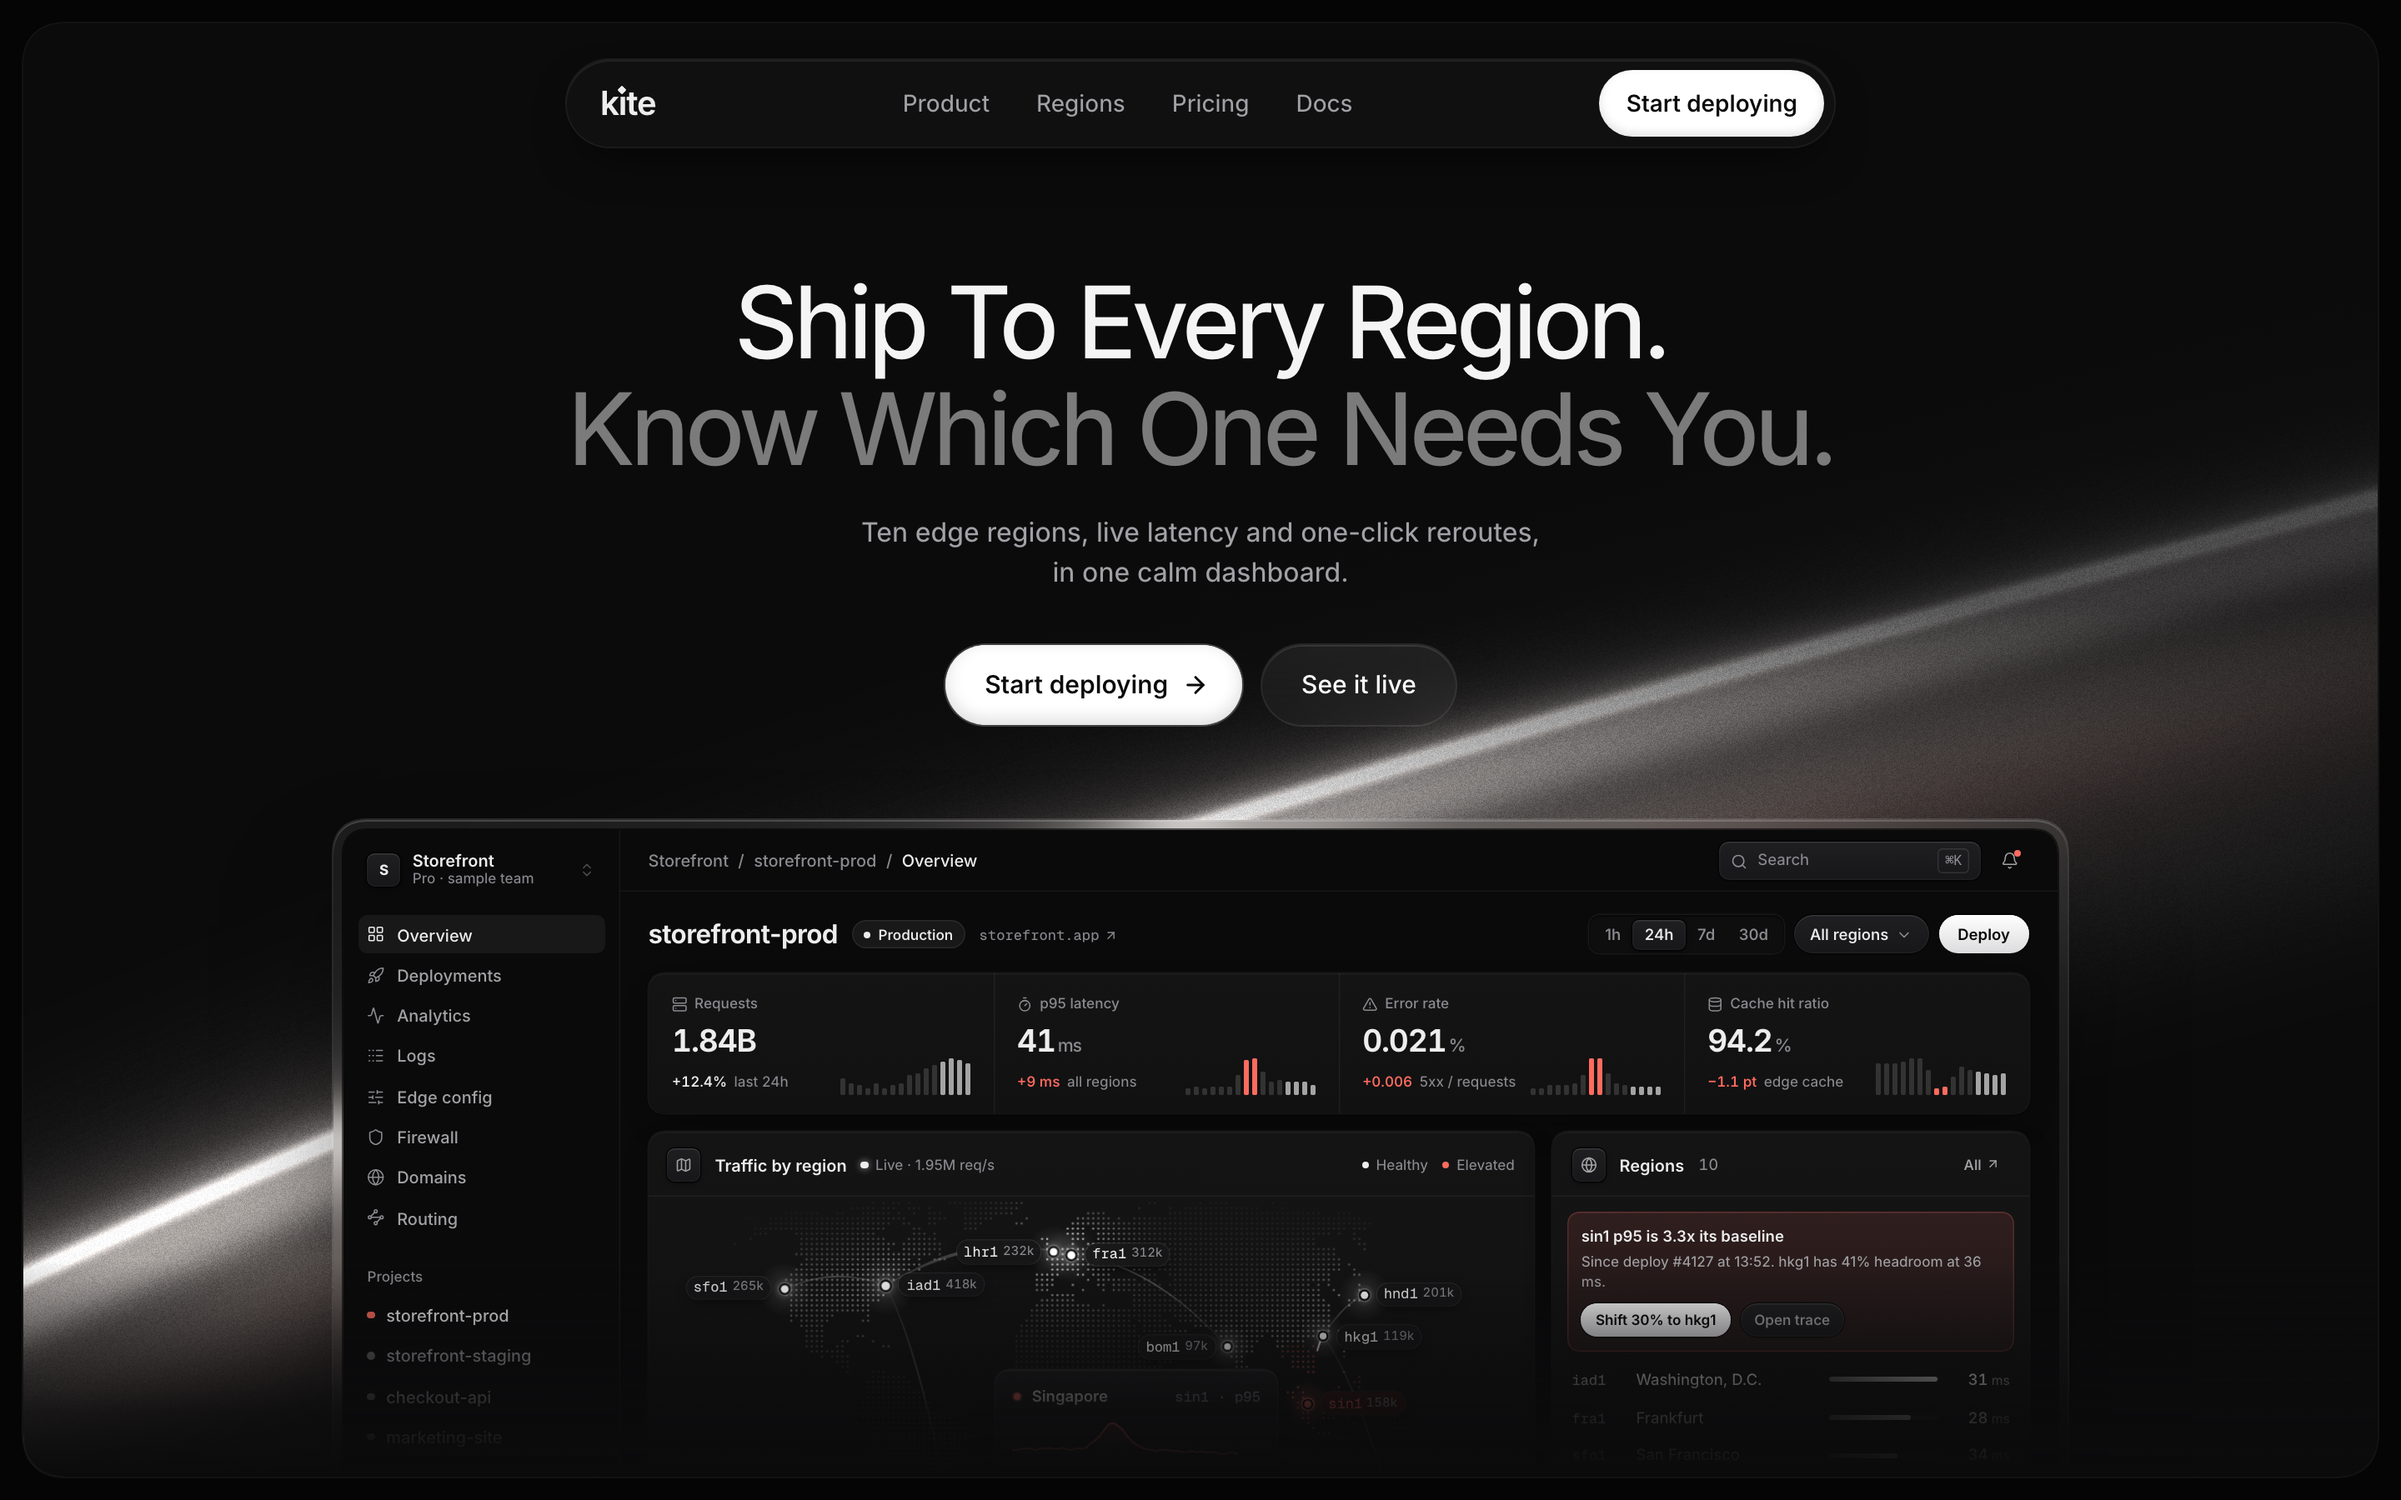
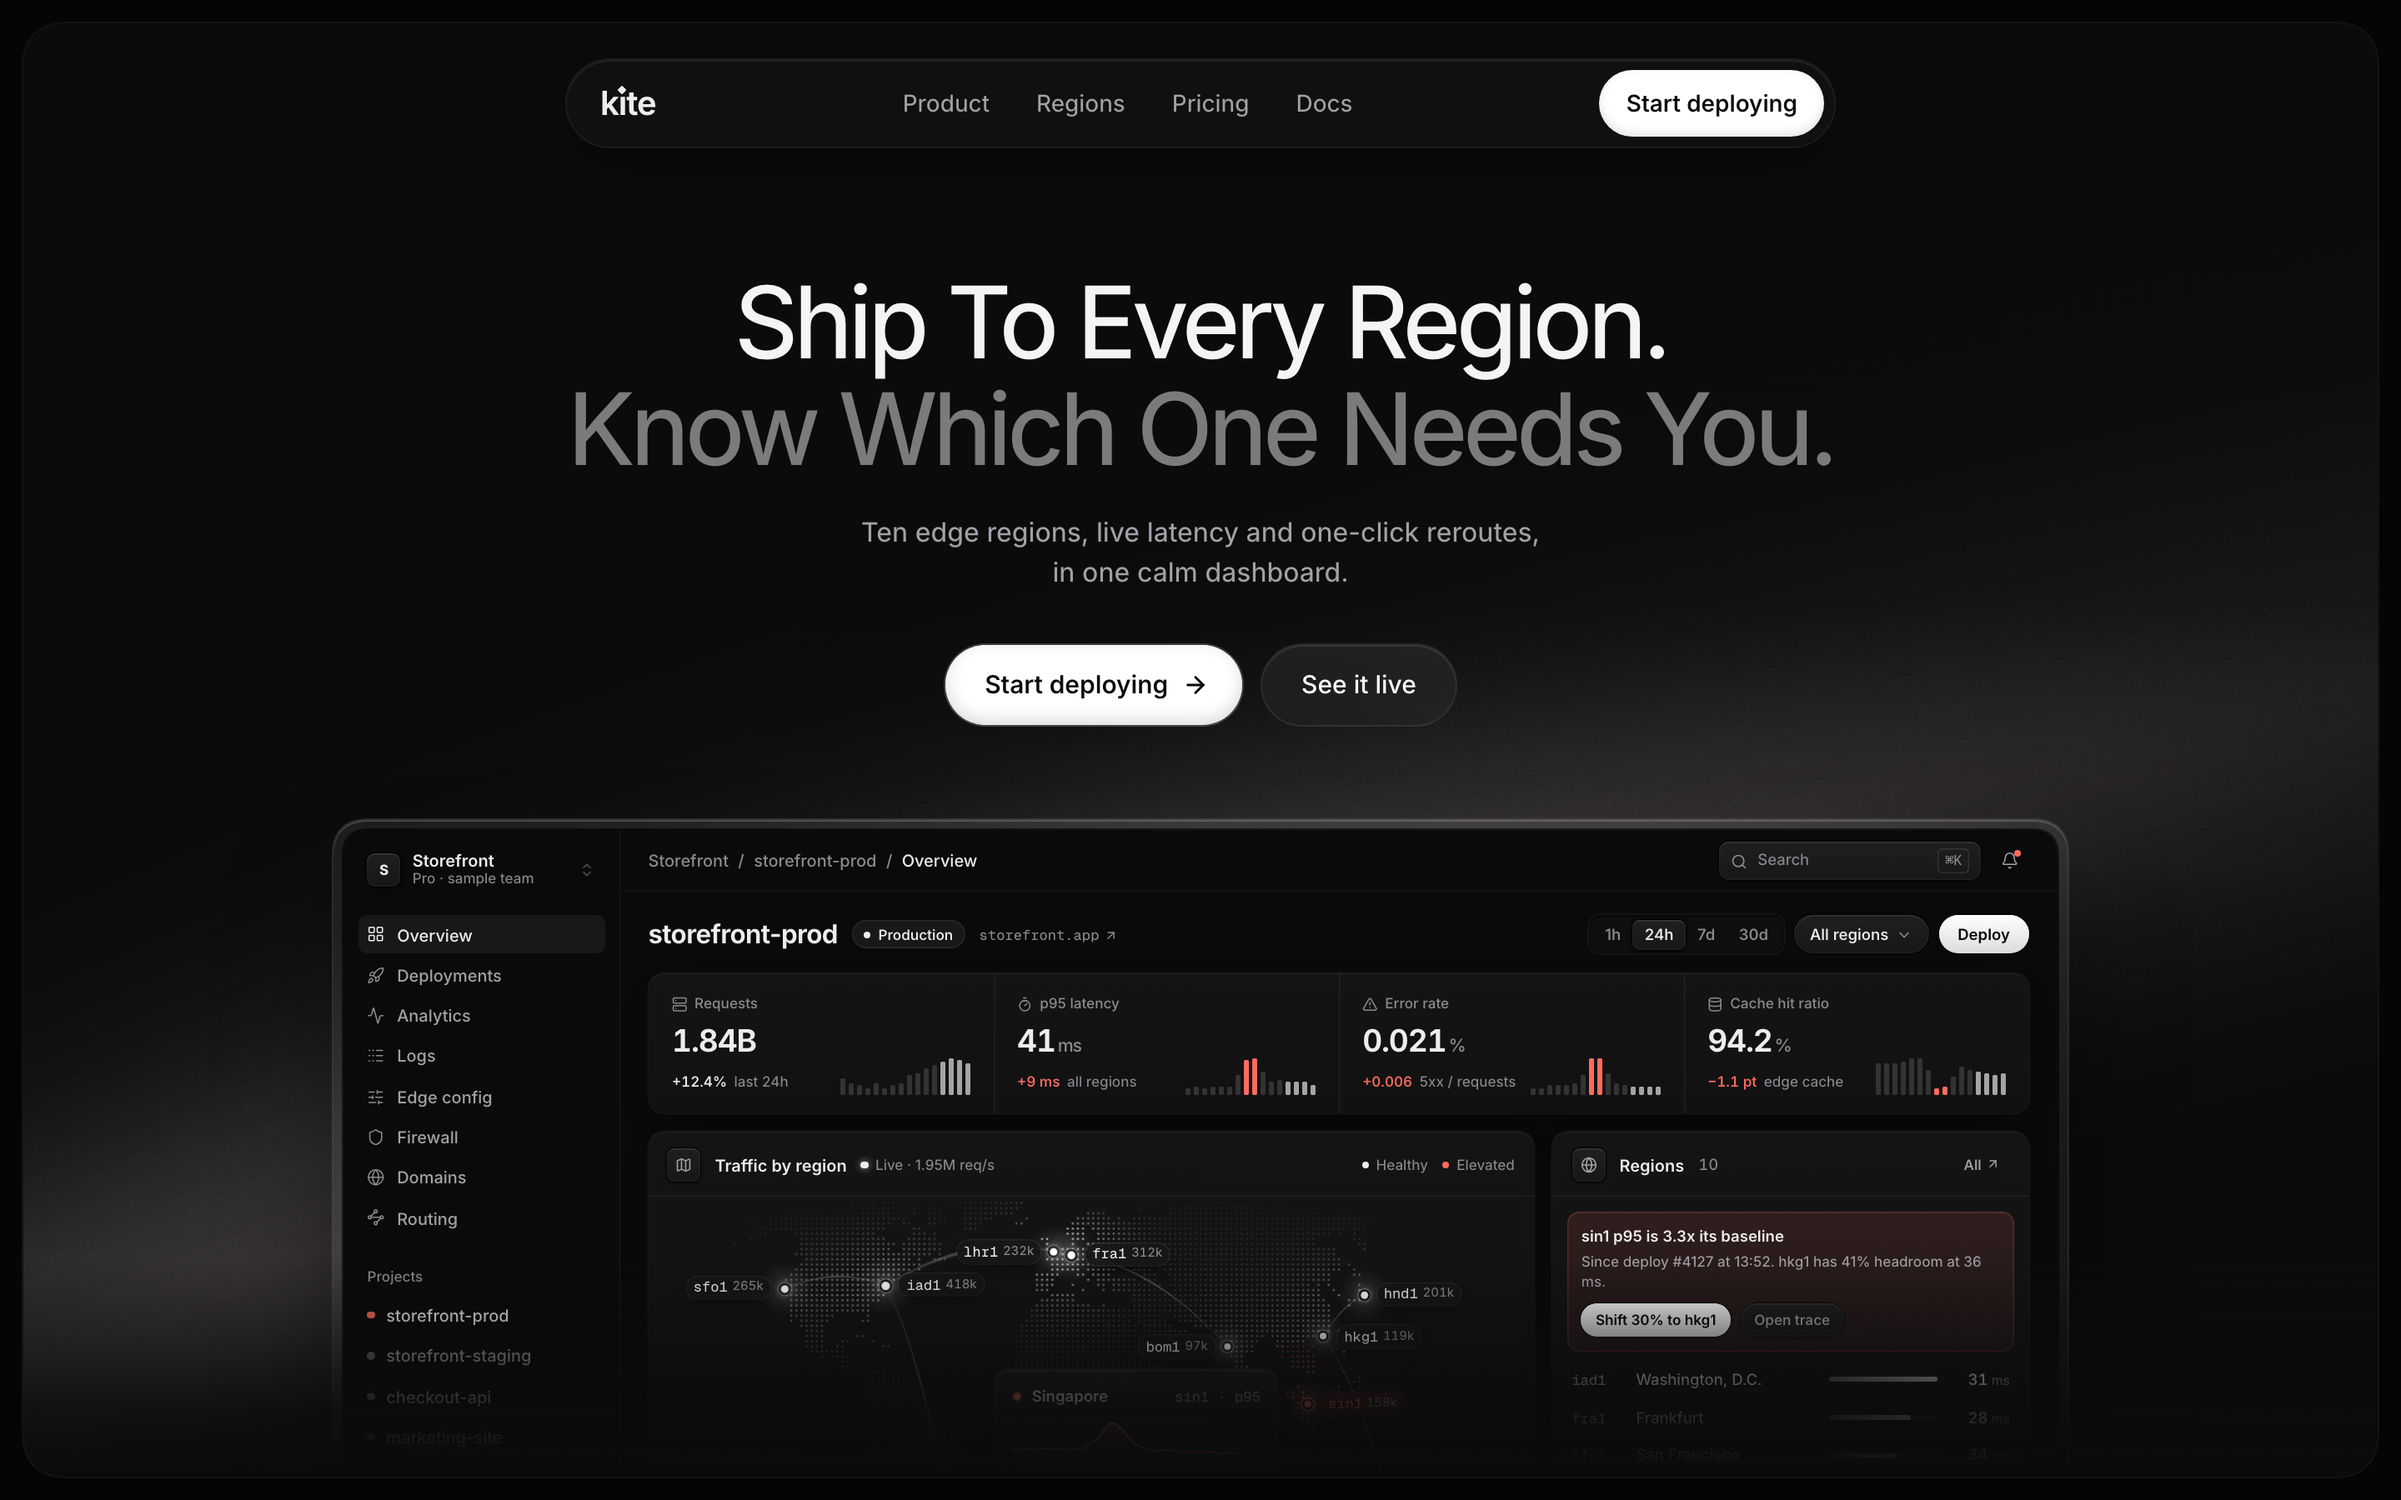
Kite hero: light field softened to a wide low-contrast sheen (no bright streak)

Changed region(s): [[0.4375, 0.3111, 1.0, 0.56], [0.0, 0.7156, 0.1562, 0.9022]]

diff --git a/work/kite/app/src/LightField.tsx b/work/kite/app/src/LightField.tsx
@@ -16,11 +16,9 @@ export default function LightField({ w, h, className = '' }: { w: number; h: num
       ctx.strokeStyle = col.replace('A', String(a)); ctx.lineWidth = width; ctx.lineCap = 'round'
       ctx.beginPath(); ctx.moveTo(-200, h * 1.02 + off); ctx.bezierCurveTo(w * 0.3, h * 0.66 + off, w * 0.56, h * 0.56 + off, w + 240, h * 0.3 + off); ctx.stroke(); ctx.restore()
     }
-    ribbon(40, 260, 0.10, 'rgba(255,236,222,A)', 90)
-    ribbon(0, 120, 0.20, 'rgba(255,244,236,A)', 46)
-    ribbon(-26, 46, 0.34, 'rgba(255,250,246,A)', 18)
-    ribbon(-40, 10, 0.55, 'rgba(255,255,255,A)', 5)
-    ribbon(70, 70, 0.09, 'rgba(255,170,140,A)', 40)
+    ribbon(30, 320, 0.07, 'rgba(255,240,230,A)', 110)
+    ribbon(10, 160, 0.075, 'rgba(255,246,240,A)', 70)
+    ribbon(60, 120, 0.03, 'rgba(255,180,150,A)', 60)
     // fall to canvas before the reading zone (top) and toward the bottom corners
     const top = ctx.createLinearGradient(0, 0, 0, h)
     top.addColorStop(0, 'rgba(11,11,12,0.97)'); top.addColorStop(0.4, 'rgba(11,11,12,0.7)'); top.addColorStop(0.58, 'rgba(11,11,12,0)')
@@ -30,7 +28,7 @@ export default function LightField({ w, h, className = '' }: { w: number; h: num
     for (let i = 0; i < d.length; i += 4) {
       const l = (d[i] + d[i + 1] + d[i + 2]) / 765
       if (l < 0.06) continue
-      const n = (Math.random() - 0.5) * 34 * Math.min(1, l * 2.2)
+      const n = (Math.random() - 0.5) * 14 * Math.min(1, l * 3)
       d[i] += n; d[i + 1] += n; d[i + 2] += n
     }
     ctx.putImageData(img, 0, 0)

diff --git a/knowledge/founder/founder-taste.md b/knowledge/founder/founder-taste.md
@@ -390,6 +390,6 @@ Every rule here is a direct founder verdict on real output. It outranks books, w
 - **RULE** [founder] When a hero keeps missing, stop iterating blind: pick a measured reference (knowledge/benchmarks/dark/*.measure.json + fold png) and replicate its grammar exactly (positions, type tuple, nav, frame), then swap in our content and judge with `tools/compare.mjs` side by side. For dark product heroes the default reference is Linear: 73px nav + full-width 8% hairline, 1280 container, left-aligned 64/64 Inter 510 -1.4px #f7f8f8 headline at y=277, one muted subtitle line at y=445 with a quiet "New → link" right, no hero buttons, product frame #0f1011 + 8% hairline r12 at y=530 bleeding off the fold.
   **Why** Founder after six Kite hero rounds (glows, globe, textures, chips, centred stacks): "so bad now I have no words bro... find some example online and replicate".
   **Applies to** heroes after two rejected rounds. **Check** compare.mjs side-by-side saved in the work folder; headline/subtitle/frame tops within 10px of the reference. **Source** founder, 2026-10-14, Kite hero
-- **RULE** [founder] A dark hero needs exactly one strong, tasteful visual moment, or it reads "flat and empty"; glows scattered around ("wtf") and bare black ("too little") both fail. Use Basit's cinematic grammar: an inset framed stage (r28, 14px from the viewport), one rendered light field (silky grainy ribbon, grain only in the light, neutral silver with a faint warm cast) whose brightest band crests just behind the product's top edge and falls to black before the copy, a floating glass capsule nav, a centred 60px / 450 / -0.05em two-line headline with the second line at ~50% value, 16px sub-copy close under it, 48px CTAs (white lit from inside + glass), and the product ~72% wide in a glass frame dissolving at the bottom.
+- **RULE** [founder] A dark hero needs exactly one strong, tasteful visual moment, or it reads "flat and empty"; glows scattered around ("wtf") and bare black ("too little") both fail. Use Basit's cinematic grammar: an inset framed stage (r28, 14px from the viewport), one rendered light field kept SOFT: a wide, blurred, low-contrast sheen (peak alpha <= ~0.08, blur >= 60px, light grain), neutral silver with a faint warm cast, never a thin bright streak or laser line (founder: "be careful with bg elements, now it looks cheap and ugly") whose brightest band crests just behind the product's top edge and falls to black before the copy, a floating glass capsule nav, a centred 60px / 450 / -0.05em two-line headline with the second line at ~50% value, 16px sub-copy close under it, 48px CTAs (white lit from inside + glass), and the product ~72% wide in a glass frame dissolving at the bottom.
   **Why** Founder after the Linear replica: "it's flat and empty... what didn't [work] is everything from font styling to layout and colors and effects... you cooked with the dashboard, best thing in the world". Murmur (same grammar) was accepted.
   **Applies to** dark product heroes. **Check** one light source rendered (canvas/image), not CSS blobs; light luminance under the h1/CTAs < 8%; product top in the brightest band. **Source** founder, 2026-10-14, Kite hero; knowledge/web/basit-craft.md BA-01..19
